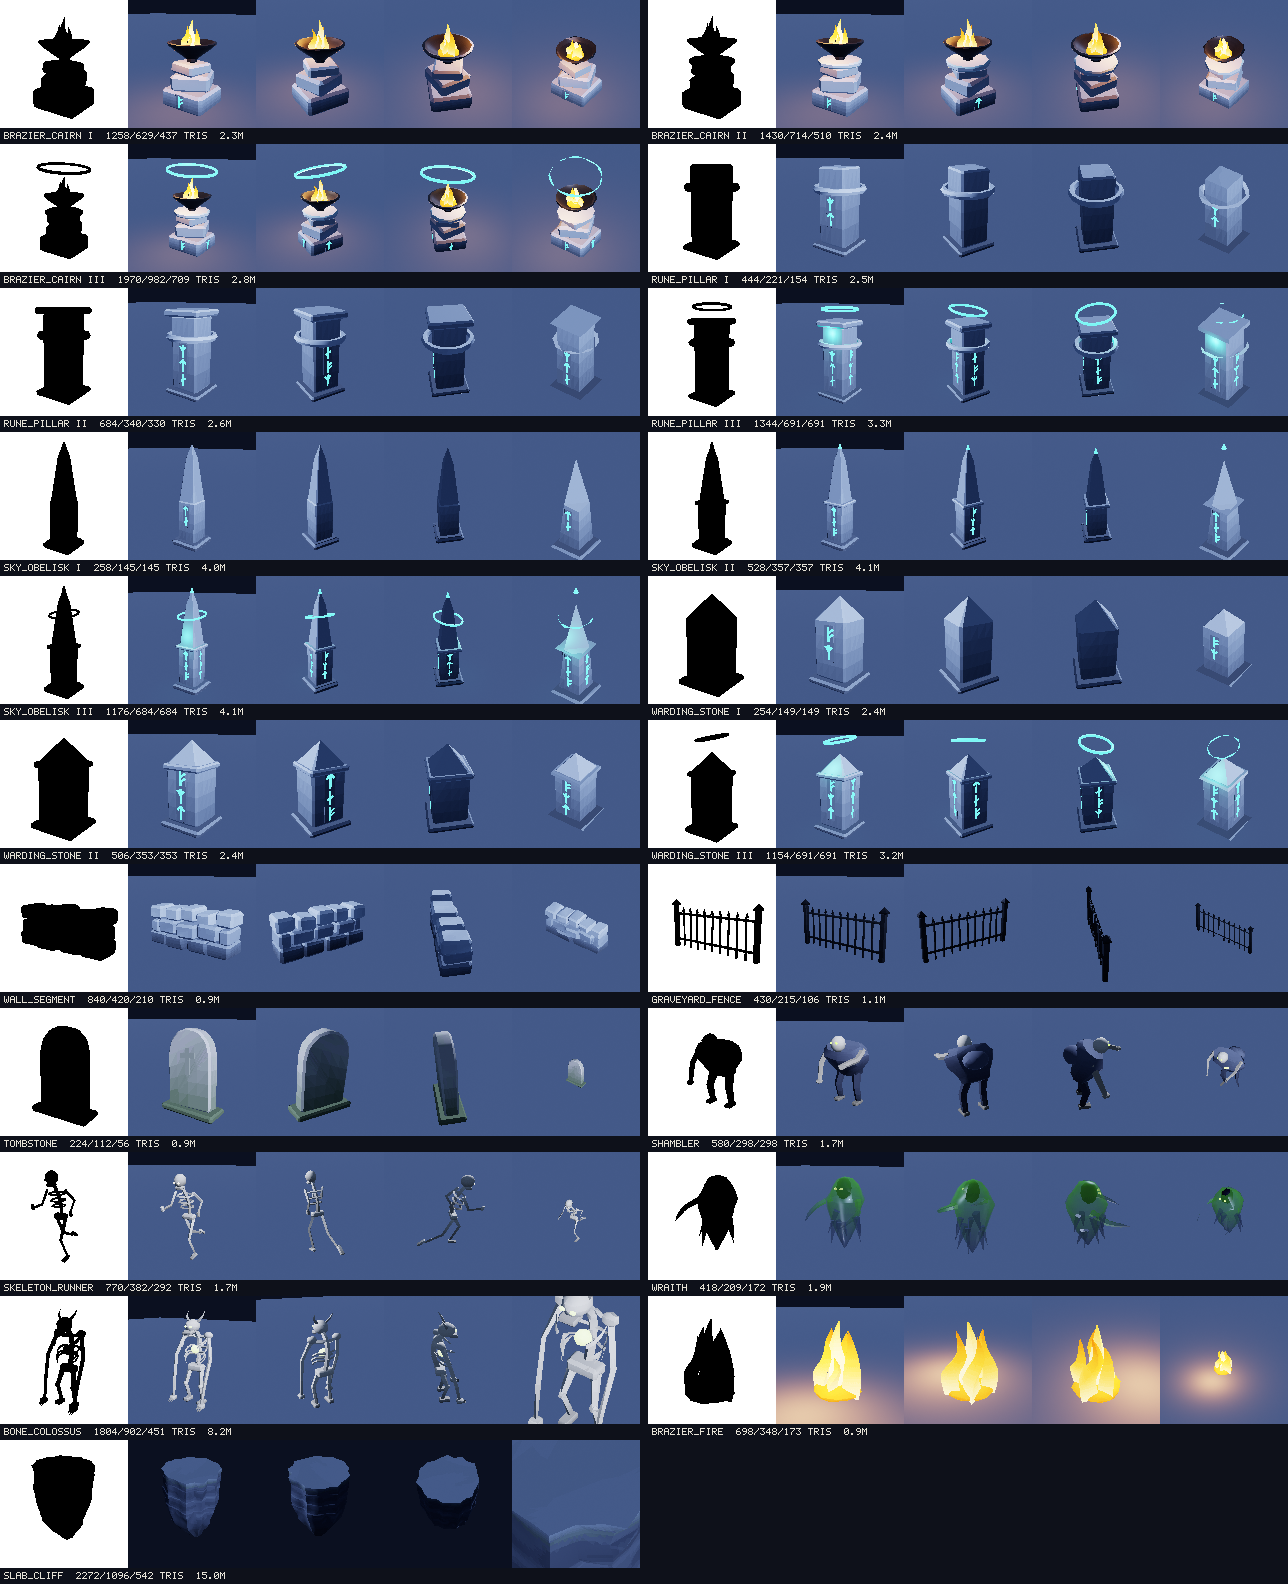
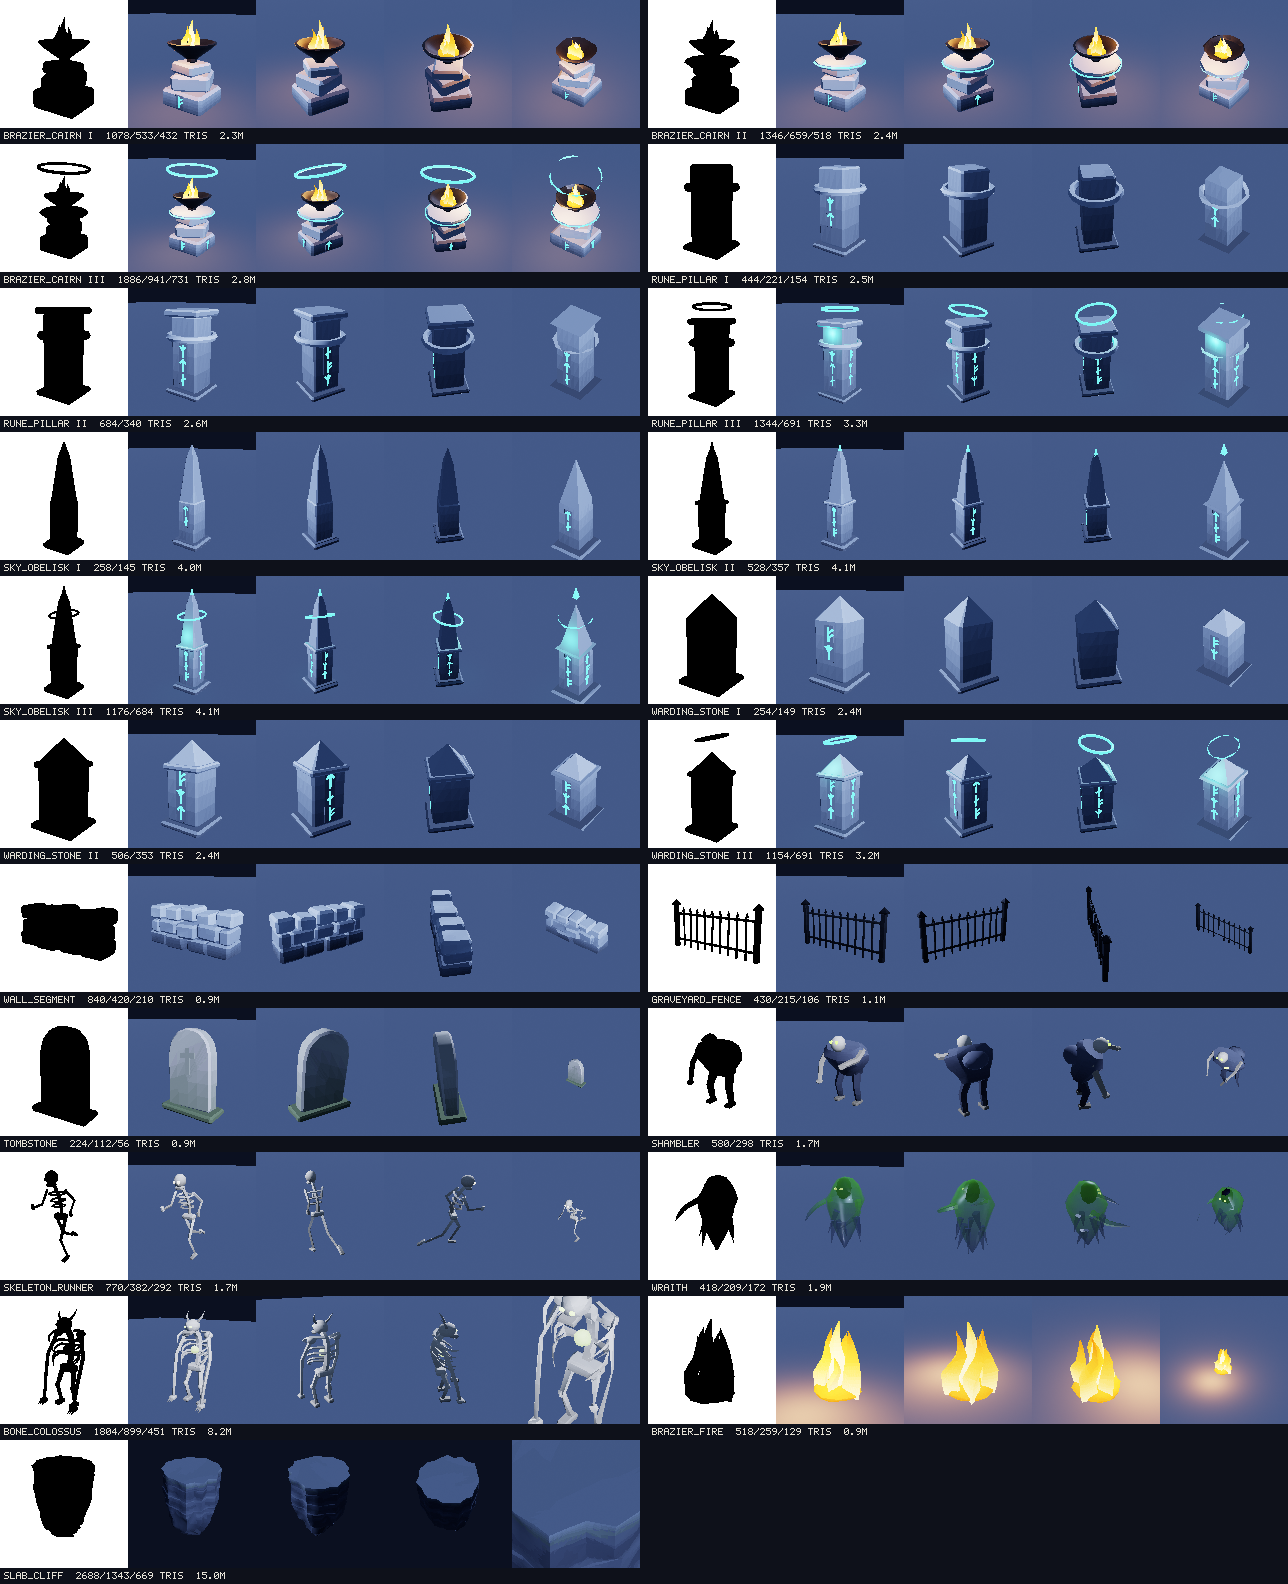
Asset review fixes: readable brazier tier II, no useless LODs
From an adversarial look at the contact sheet: brazier cairn tier II gets a
wider capstone with a glowing rune band; the obelisk needle keeps its apex
at LOD so the glowing tip stays attached; the boss ribcage is larger with
a deeper green heart; the cliff underside is crooked; tombstone lichen is
softer; enemy eyes are bigger. Builds now drop an LOD that saves under
10% over the previous one (kept rune parts made some LOD2s duplicates).

diff --git a/crates/specula-model/tests/sepulcra_assets.rs b/crates/specula-model/tests/sepulcra_assets.rs
@@ -69,14 +69,16 @@ fn budgets_validity_and_lods() {
     for (name, m, min, max) in all(&style, &lib) {
         let n0 = m.lods[0].triangle_count();
         assert!(n0 >= min && n0 <= max, "{name}: {n0} triangles, budget {min}..={max}");
-        assert_eq!(m.lods.len(), 3, "{name}");
+        assert!((2..=3).contains(&m.lods.len()), "{name}: {} LODs", m.lods.len());
+        assert_eq!(m.lods.len(), m.lod_ratios.len());
         for (i, l) in m.lods.iter().enumerate() {
             l.validate().unwrap_or_else(|e| panic!("{name} LOD{i}: {e}"));
         }
-        let (n1, n2) = (m.lods[1].triangle_count(), m.lods[2].triangle_count());
-        assert!(n1 < n0 && n2 <= n1, "{name}: LODs {n0}/{n1}/{n2} must shrink");
-        assert!((n1 as f32) <= 0.75 * n0 as f32, "{name}: LOD1 {n1} of {n0} is not a real reduction");
-        println!("{name:<20} {n0:>5} / {n1:>5} / {n2:>5}");
+        let counts: Vec<usize> = m.lods.iter().map(|l| l.triangle_count()).collect();
+        // Every LOD saves at least 10% over the one before (no useless duplicates).
+        assert!(counts.windows(2).all(|w| (w[1] as f32) <= 0.9 * w[0] as f32), "{name}: LODs {counts:?} must shrink");
+        assert!((counts[1] as f32) <= 0.75 * n0 as f32, "{name}: LOD1 {} of {n0} is not a real reduction", counts[1]);
+        println!("{name:<20} {counts:?}");
     }
 }
 
@@ -146,4 +148,4 @@ fn builds_are_bit_identical_pinned() {
     assert_eq!(format!("{:016x}", h.finish()), PINNED, "Sepulcra asset hash changed");
 }
 
-const PINNED: &str = "5559d9d582c452b1";
+const PINNED: &str = "76650a02e3809c66";

diff --git a/crates/specula-model/src/recipe.rs b/crates/specula-model/src/recipe.rs
@@ -625,7 +625,8 @@ impl<'a> BuildParams<'a> {
 #[derive(Clone, Debug, PartialEq)]
 pub struct Model {
     pub name: String,
-    /// `lods[0]` is full detail; later entries follow the recipe's `lods` ratios.
+    /// `lods[0]` is full detail; later entries follow the recipe's `lods` ratios. A ratio whose
+    /// mesh saves under 10% over the previous LOD is skipped, so there may be fewer entries.
     pub lods: Vec<MeshData>,
     /// Requested triangle ratio of each LOD (1.0 first).
     pub lod_ratios: Vec<f32>,
@@ -744,6 +745,12 @@ pub fn build_recipe(recipe: &Recipe, params: &BuildParams) -> Result<Model, Reci
         let pairs: Vec<(&Shape, &BuiltPart)> = shapes.iter().zip(&built).collect();
         let mesh = assemble(&pairs);
         mesh.validate().map_err(|er| e(&format!("lods[{i}]"), ErrorCode::InvalidMesh, er.to_string()))?;
+        // An LOD that saves under 10% over the previous one is dropped: it would cost memory and
+        // a switch for nothing (parts kept with lod_detail 0 can make a model irreducible).
+        let prev = lods.last().map_or(0, |m| m.triangle_count());
+        if mesh.triangle_count() as f32 > 0.9 * prev as f32 {
+            continue;
+        }
         lods.push(mesh);
         ratios.push(ratio);
     }
